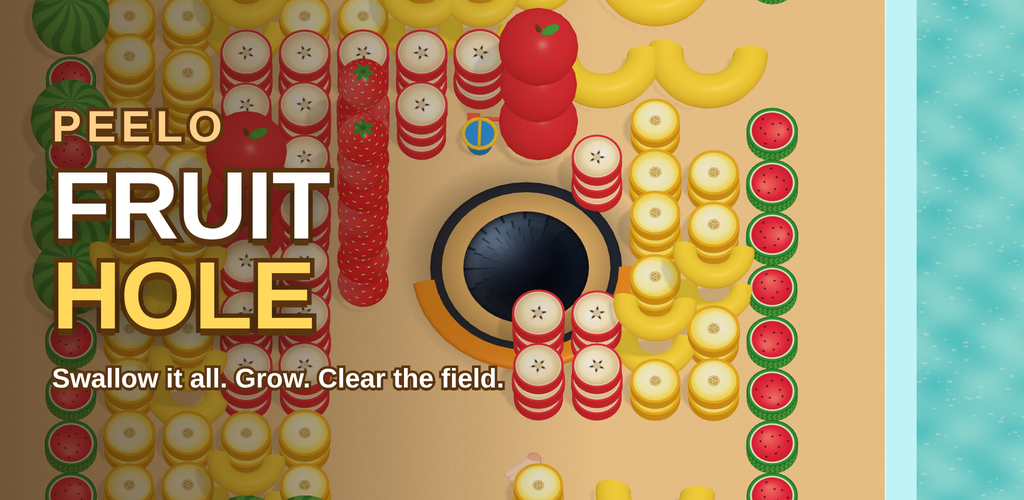
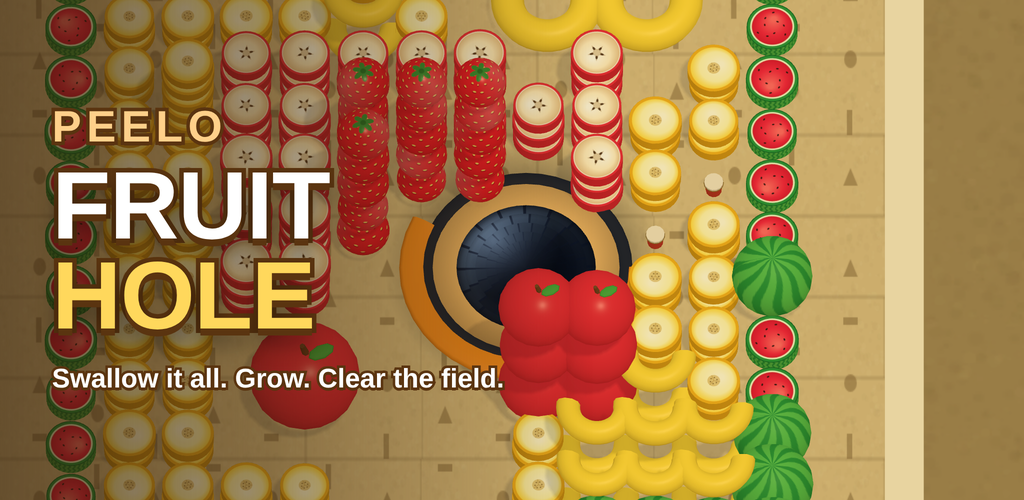
Make the feature graphic refuse a board that is not a field
`make-feature.mjs` resolved its theme to a level and shot it. `beach` now
has exactly one level, 3, and that is a picture board - so the one plate
at the top of the store page was about to show a mosaic of a strawberry
under the words FRUIT HOLE. It reads the board kind from the game now and
throws before opening a page, which is the third copy of this guard and
the third thing it caught on the day it was written.

The theme moves to `egypt`: level 1, sand, and all four fruit colours in
frame. `savanna` was tried first on the strength of being the densest
board in the game at 441 fruit, and it was worse - brown ground, a field
red from edge to edge, and a title that stops being readable on top of
it. Density is not the measure here; separating the colours is.

Claude-Session: https://claude.ai/code/session_01JC1qWREgw5F7AUsNfWCUkf

diff --git a/fruithole/store/listing-en.md b/fruithole/store/listing-en.md
@@ -555,16 +555,28 @@ IDs must match the `PRODUCTS` list in the game **exactly**.
 ## Assets (ready in this folder)
 - `icon-512.png` — store icon, exactly 512×512 (required)
 - `feature-1024x500.png` — feature graphic (required)
-- `1-play.png` — level 1: the stepped pyramid on the beach
-- `2-grown.png` — the voxel level, hole grown, a swathe cleared
+- `1-play.png` — Pyramid, on the Egypt sand: a full field, hole still small
+- `2-grown.png` — Patches (Savanna), hole grown, a swathe cleared
 
-The feature graphic is shot from level 20 by `node fruithole/make-feature.mjs`.
-It used to be the voxel level on the dark shop floor — the most prominent
+The feature graphic comes from `node fruithole/make-feature.mjs`, which takes
+a **theme name** and picks that theme's densest ordinary grid board.
+
+Its theme has moved twice, and both moves were the same mistake caught late.
+It shipped as the voxel level on the dark shop floor — the most prominent
 image on the store page announcing a pixel game played in the dark, when one
-level in nineteen is voxel. Sand is the brightest ground the game owns.
+level in nineteen was voxel. Then `beach`, because sand is the brightest
+ground the game owns. Today `beach` has exactly one level, 3, and that is a
+**picture board**: the script now refuses rather than quietly shooting one,
+and the theme is `egypt`.
 
-- `3-snow.png` — a Snow Day level: snowmen, penguins, candy canes
-- `4-rings.png` — Orbits: rings opening out from the hole
+`savanna` was tried first, being the densest board in the game at 441 fruit,
+and it was worse: brown ground, a field that is red end to end, and a title
+that stops being readable on top of it. Density alone is not the measure —
+what this one plate has to do is separate the colours.
+
+- `3-place.png` — Condor (Nazca): a layout drawn to be read from above
+- `4-mission.png` — a mission level, because the set otherwise says every
+  level is "sweep the field"
 - `5-menu.png` — main menu, on the beach
 - `6-skins.png` — the ten hole skins
 - `7-levels.png` — the level map with star ratings
@@ -607,18 +619,30 @@ tablets, Chrome OS and Play Games on PC.
 Only screenshots go in those sections. The feature graphic and the icon each
 have their own field further up the page.
 
-## Görseller eskidi: resim tahtaları
+## Görseller nasıl eskiyor
 
-Sekiz ekran görüntüsünün hepsi ızgara düzenlerinden çekildi — piramit, kar,
-ada. Oyunda artık 3, 13, 23… bölümlerinde **resim tahtaları** var: mantar,
-balon, dondurma, çilek, karpuz, ananas, kiraz, çiçek. 1400-1850 parçadan
-kurulu ve mağazadaki hiçbir görselde yoklar.
+Bu bölüm iki kez yazıldı ve ikisinde de eskime aynı yerden geldi: **görsel
+üreten dosya tahtayı düzen adıyla istiyor, ama tahtanın türünü sormuyordu.**
 
-Bu bir bakım işi değil, satış işi: Play aramada ilk üç görseli gösteriyor ve
-kurulum kararının çoğu orada veriliyor. Rakiplerin görsellerinde tam da bu var
-— mısır koçanı, oyuncak ayı, Eyfel Kulesi — ve bizim ilk üç görselimiz onların
-yanında ızgara gibi duruyor.
+Ad istemek bölüm numarasının değişmesini karşılıyor — düzen nereye taşınırsa
+taşınsın bulunuyor. Karşılamadığı şey şu: resim, şerit ve bulmaca tahtaları
+tahtayı desenden değil **bölüm numarasından** alıyor. Bir düzen o yuvalardan
+birine kayarsa dosya yine çalışıyor, yine görsel üretiyor, sadece içinde
+istenen şey yok. Kimse fark etmiyor, çünkü hata bir çıktı değil bir resim.
 
-Üretim erişimi alındıktan sonra **ilk iş**: `make-shots.mjs` ile yeniden çek ve
-ilk üç sıraya bir resim tahtası koy. Aynısı `feature-1024x500.png` için de
-geçerli.
+29 Eylül'de üç dosyada birden çıktı. `make-shots.mjs`: `Walls` 48'e düşmüştü
+(bulmaca) ve `3-snow.png` altında "Every level is a shape — and a place"
+yazan bir bulmaca tahtası olacaktı; `Blocks` 15'e düşmüştü (devler görevi).
+`make-clips.mjs`: üç klip sırasıyla şerit, bulmaca ve yine şerit tahtası
+filme alıyordu. `make-feature.mjs`: `beach` teması tek bir bölüme, 3'e
+inmişti — resim tahtası.
+
+Üçü de artık tahta türünü oyundan okuyup **tek kare çekmeden önce** duruyor.
+Güvencenin değeri burada ölçüldü: yazıldığı gün üçünde de bir şey yakaladı.
+
+Geriye kalan iş, ilk üç sıraya bir **resim tahtası** koymak — mantar, balon,
+dondurma, çilek, karpuz, ananas, kiraz, çiçek; 1400-1850 parçadan kurulu ve
+hâlâ hiçbir mağaza görselinde yoklar. Rakiplerin ilk karesinde tam da bu var
+(mısır koçanı, oyuncak ayı, Eyfel Kulesi) ve Play aramada ilk üç görseli
+gösteriyor. Bugün konamadı, çünkü karenin altındaki yazıyı da değiştirmek
+gerekiyor ve `SHOTS` sırası mağazadaki sırayla birebir.
